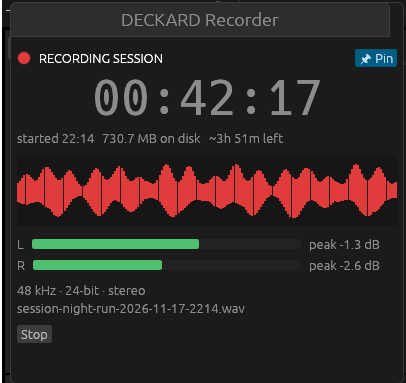
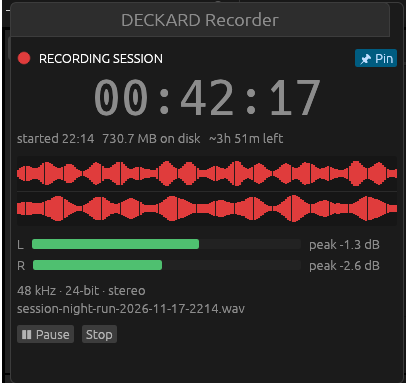
DECKARD manual: Session Recorder play/pause and stereo waveform
The recorder now arms on Record Session to File…, and Play/Pause (or
Space) starts, pauses and resumes recording; pausing holds the timer and
leaves the paused time out of the file. Update the prose and the
screenshot to match, and note the waveform is now a stereo view.

Changed region(s): [[0.0296, 0.4021, 0.9754, 0.5744], [0.0591, 0.8329, 0.2956, 0.9191]]

diff --git a/src/content/deckard-manual/differences-from-maschine.md b/src/content/deckard-manual/differences-from-maschine.md
@@ -120,14 +120,25 @@ archiving a session. Maschine has nothing like it.
 
 To record:
 
-1. Choose **File ▸ Record Session to File…** and pick where to save it. Recording
-   starts and the **Session Recorder** window opens.
-2. Choose **File ▸ Stop Session Recording** when you're done.
+1. Choose **File ▸ Record Session to File…** and pick where to save it. This *arms*
+   recording and opens the **Session Recorder** window with its live meters and
+   waveform. Nothing is written yet, and the header reads **READY**.
+2. Press **Play ▸** in the window, or <kbd>Space</kbd> while the window is focused, to
+   start recording. The header reads **RECORDING SESSION**.
+3. **Pause ⏸** (or <kbd>Space</kbd> again) holds the recording; the header reads
+   **PAUSED**. Press **Play ▸** to carry on.
+4. Choose **File ▸ Stop Session Recording**, or **Stop** in the window, when you're
+   done. This finalizes the file. If you arm and stop without ever pressing **Play ▸**,
+   no file is written.
+
+Pausing holds the timer and leaves the paused time out of the file. Resuming carries on
+into the same file, so the file holds exactly the audio recorded while playing, with the
+paused spans left out.
 
 The file is named `session-<project>-<date>-<time>.wav` to start with. DECKARD records
 the **master bus**, after its level and pan, as **24-bit stereo at the engine's sample
-rate**. Recording is continuous and independent of the transport: it captures exactly
-what you'd hear at the master out, whether or not the song is playing.
+rate**. Recording is independent of the song's transport: it captures exactly what you'd
+hear at the master out, whether or not the song is playing.
 
 ### The Recorder window
 
@@ -136,17 +147,19 @@ what you'd hear at the master out, whether or not the song is playing.
 glance at the timer while you work.
 
 <figure class="screenshot narrow">
-  <img src="/manual/screenshots/session-recorder.png" alt="The DECKARD Recorder window mid-set. Its title bar reads DECKARD Recorder. Below, a red dot and RECORDING SESSION sit beside a highlighted 📌 Pin toggle. A large centred timer reads 00:42:17, and under it: started 22:14, 730.7 MB on disk, ~3h 51m left. A red scrolling waveform fills the middle. Green L and R level meters below it read peak -1.3 dB and peak -2.6 dB. A line reads 48 kHz · 24-bit · stereo, then the file name session-night-run-2026-11-17-2214.wav, and a Stop button." loading="lazy" />
-  <figcaption>The Session Recorder window partway through a set.</figcaption>
+  <img src="/manual/screenshots/session-recorder.png" alt="The DECKARD Recorder window mid-recording. Its title bar reads DECKARD Recorder. Below, a red dot and RECORDING SESSION sit beside a highlighted 📌 Pin toggle. A large centred timer reads 00:42:17, and under it: started 22:14, 730.7 MB on disk, ~3h 51m left. A red scrolling stereo waveform fills the middle in two lanes, the left channel above the right. Green L and R level meters below read peak -1.3 dB and peak -2.6 dB. A line reads 48 kHz · 24-bit · stereo, then the file name session-night-run-2026-11-17-2214.wav, and a controls row with a Pause button and a Stop button." loading="lazy" />
+  <figcaption>The Session Recorder window while recording.</figcaption>
 </figure>
 
 It shows:
 
-- a running **set timer**, counting up as HH:MM:SS;
-- a scrolling **waveform** of the master output;
+- its state in the header — **READY**, **RECORDING SESSION** or **PAUSED**;
+- a running **set timer**, counting up as HH:MM:SS, which holds while paused;
+- a scrolling **stereo waveform** of the master output, the left channel above the right;
 - **L** and **R** level meters with their **peak dB**;
 - the **time remaining** before the recording has to stop;
-- the sample rate and the file name.
+- the sample rate and the file name;
+- **Play ▸** / **Pause ⏸** and **Stop** controls.
 
 ### One recorder at a time
 
